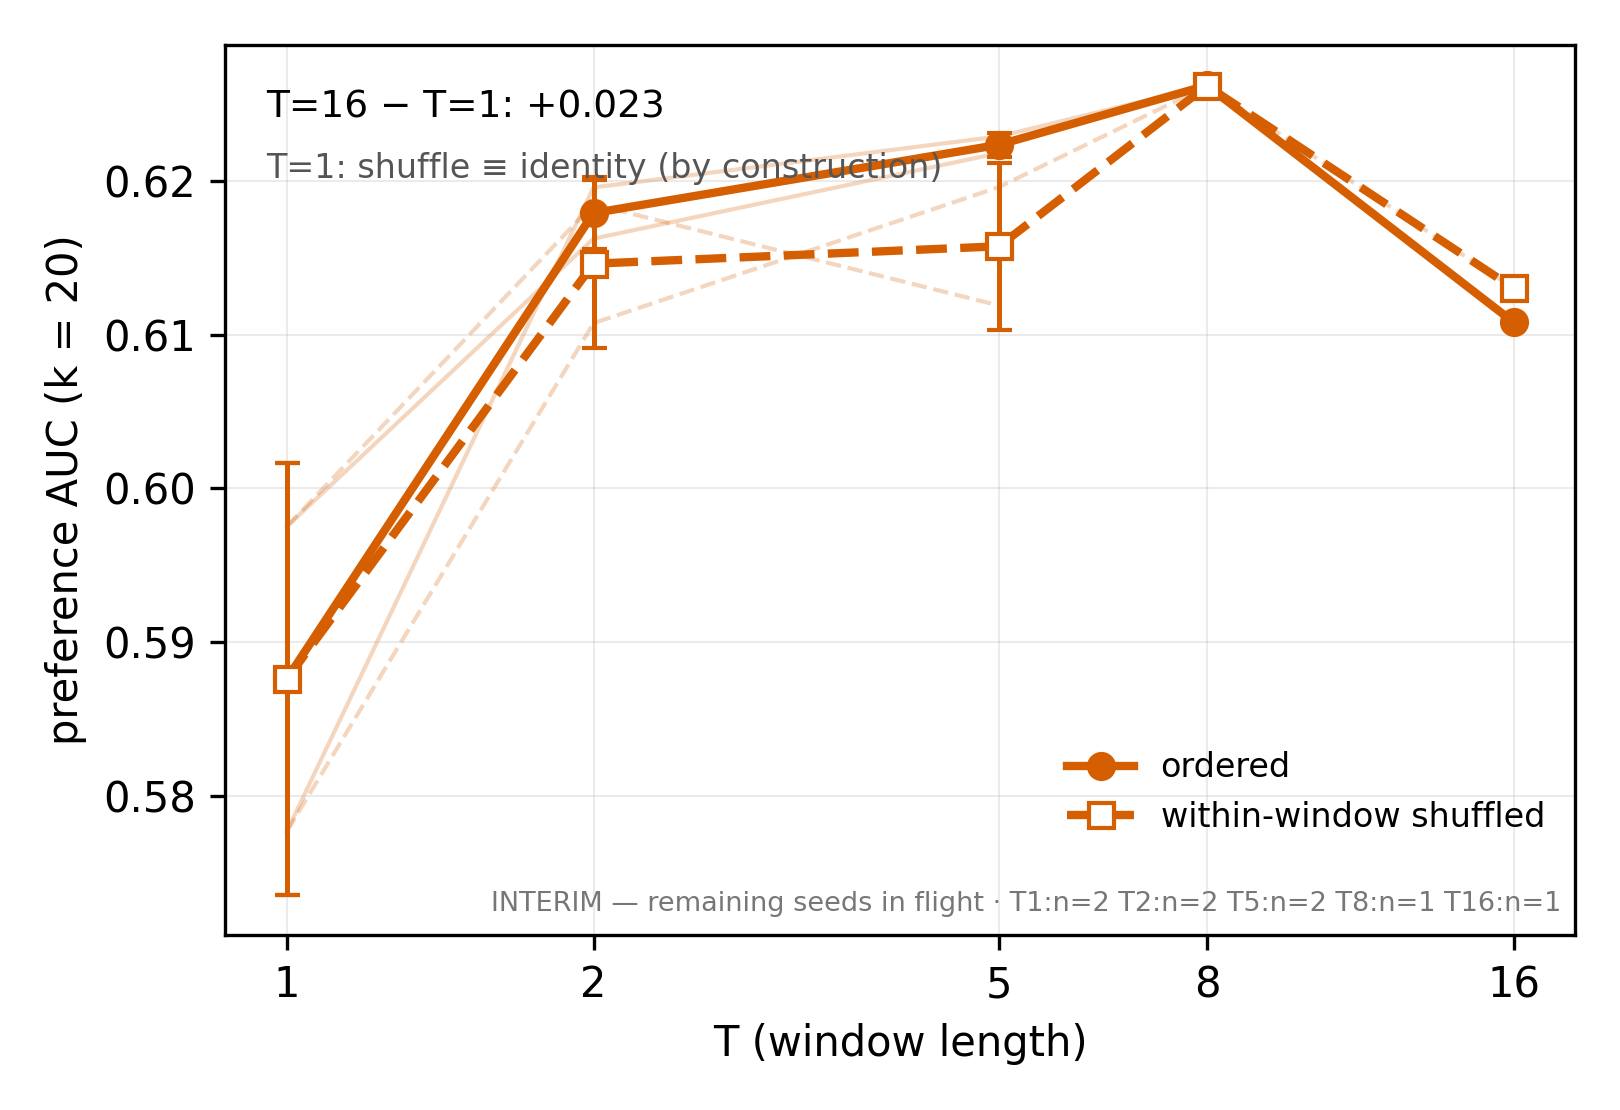
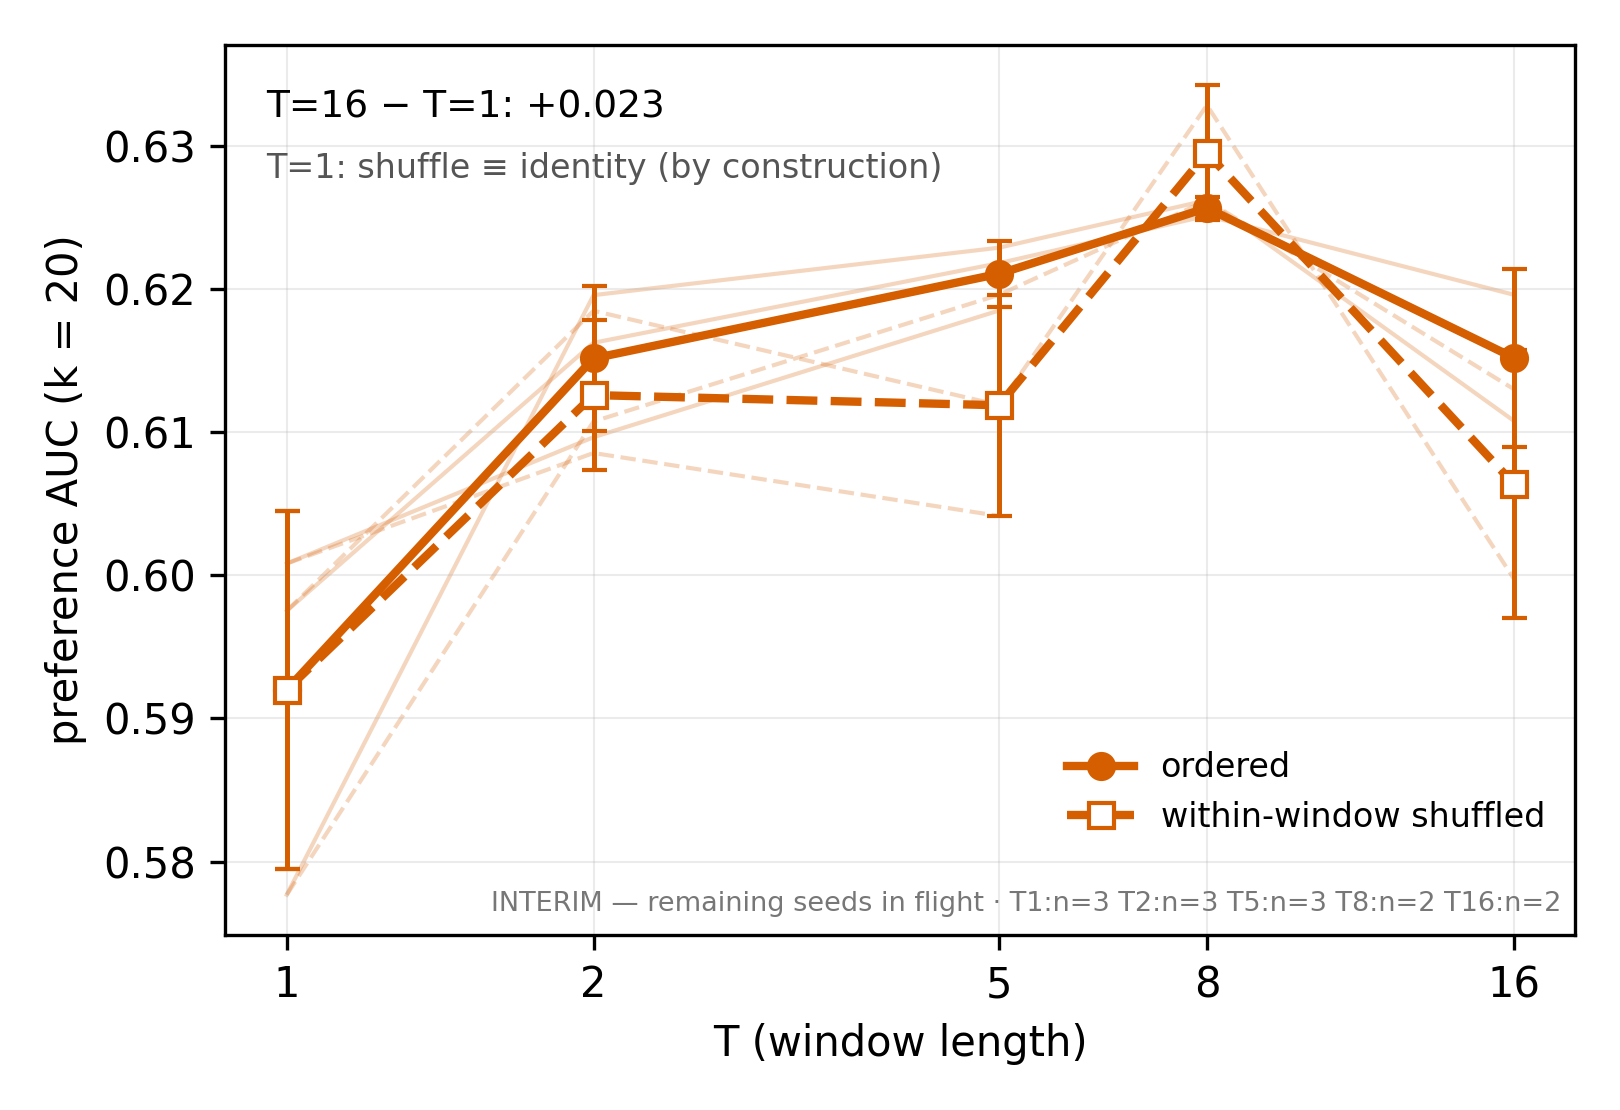
runpod-2: interim fig refresh — full 2-seed (3-seed T<=5), T8 peak in seed-mean, decline replicated; LOG beat

diff --git a/experiments/explorations/task_hunt/LOG.md b/experiments/explorations/task_hunt/LOG.md
@@ -10577,3 +10577,15 @@ are theirs (`fig_probing_shuffle_tsweep.*` = 36-task headline,
 updated to the committed figs. Aggregation flag CLOSED.
 
 _Recorded-by: claude-fable-5 (mac-local, orchestrator)_
+## 2026-07-27 17:10 London (wall) — runpod-2: s1_T16 landed; interim fig now FULL 2-seed (3-seed on T≤5)
+
+s1_T16 **0.6196** ok (158.1 min, solo-rate) — the T8→T16 decline
+now replicates at seed 1 (0.6251→0.6196; s42: 0.6262→0.6108), and
+the interim `fig_rlhf_shuffle_tsweep` refresh (pushed this commit)
+shows the inverted-U in the seed-mean with shuffled hugging
+ordered inside ±sd at every T. Coverage: n=3 at T{1,2,5}, n=2 at
+T{8,16}. Pair-style stays mono pending the meeting's pick (knob
+ready). Remaining: s2_T8 (~18:45), s2_T16 (drain ~20:50) → FINAL
+3-seed render + verdict-extension entry + actuals ~21:15. PTR.
+
+_Recorded-by: claude-fable-5 (runpod-2)_
